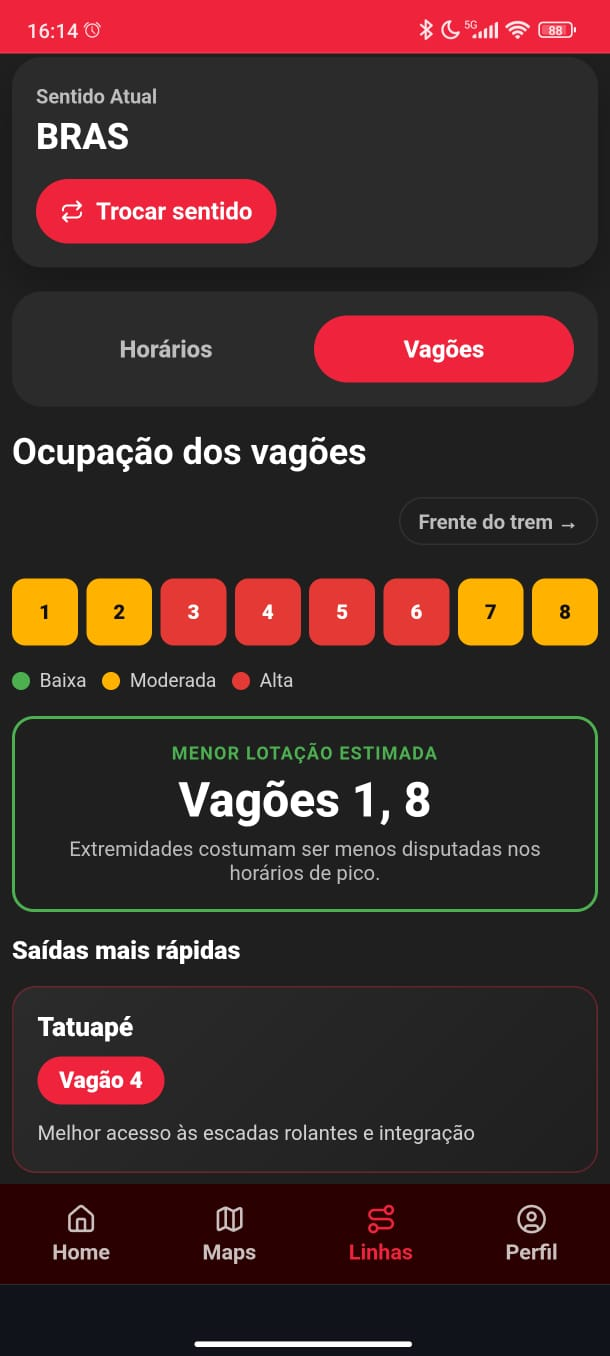
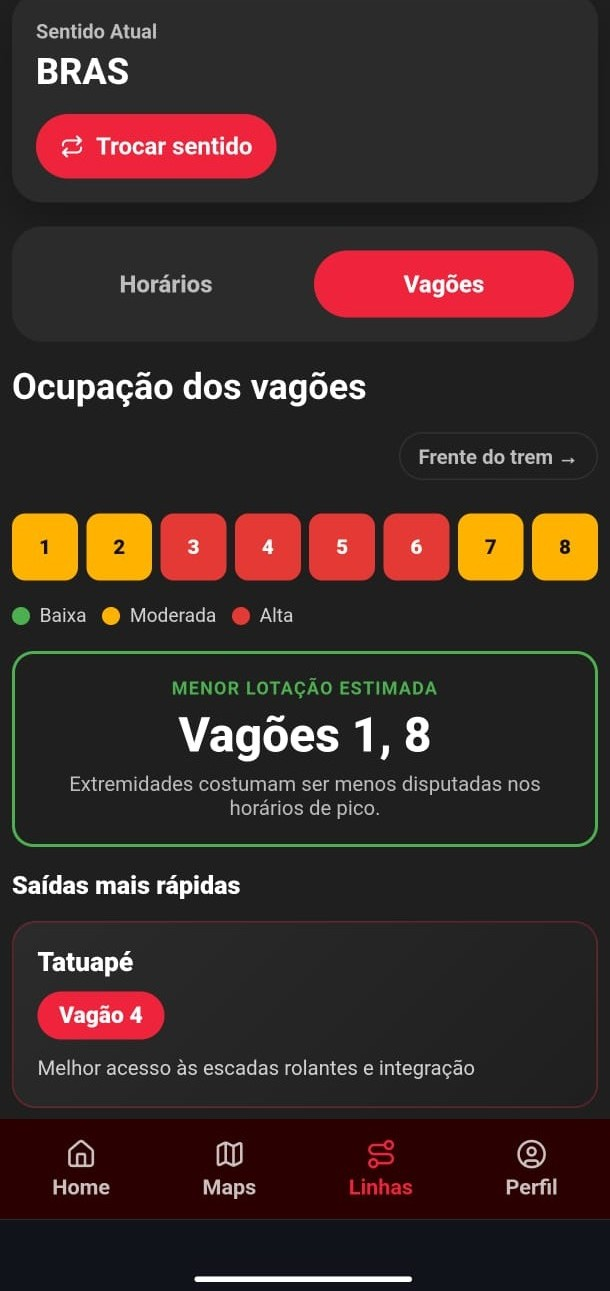
feat: faz a documentação do projeto (readme)

Changed region(s): [[0.0, 0.1859, 1.0, 0.9295], [0.0, 0.0, 1.0, 0.1859], [0.9344, 0.7126, 0.9656, 0.7436]]

diff --git a/readme.md b/readme.md
@@ -1,0 +1,381 @@
+# LocalLead — Inteligência Espacial para Mobilidade Urbana
+
+## Descrição do Projeto
+
+O **LocalLead** é um site institucional desenvolvido para apresentar uma solução de mobilidade urbana inteligente criada para a **Global Solution FIAP 2026**. A proposta do projeto é demonstrar como dados espaciais, inteligência artificial, análise climática e informações ferroviárias podem contribuir para uma experiência mais previsível, clara e segura para passageiros do transporte urbano sobre trilhos.
+
+O front-end foi desenvolvido com foco em uma comunicação visual moderna, limpa e tecnológica, apresentando o problema enfrentado pelos usuários, o conceito da solução, o funcionamento da proposta, o MVP do aplicativo, os integrantes do grupo e os canais de contato.
+
+A identidade visual do projeto utiliza uma paleta baseada em vermelho, branco, cinza claro, cinza escuro e preto, buscando transmitir inovação, mobilidade, confiança e clareza visual.
+
+---
+
+## 🔗 Repositório
+
+[![GitHub](https://img.icons8.com/ios-glyphs/30/000000/github.png)](https://github.com/EnzoNukui/LocalLead)  
+[https://github.com/EnzoNukui/LocalLead](https://github.com/EnzoNukui/LocalLead)
+
+---
+
+## 🌐 Link do Projeto
+
+O front-end do projeto **LocalLead** está disponível para acesso público através do deploy na Vercel.
+
+🔗 <a href="locallead-site.vercel.app" target="_blank"><strong>Acessar o site do LocalLead</strong></a>
+
+---
+
+## 🛠️ Tecnologias Utilizadas
+
+O projeto foi desenvolvido utilizando tecnologias web nativas, priorizando organização, responsividade, semântica e facilidade de manutenção.
+
+* **HTML5:** utilizado para estruturar as páginas, seções, navegação, conteúdos institucionais e elementos semânticos do site.
+* **CSS3:** responsável pela identidade visual, responsividade, organização dos layouts, grids, cards, botões, header, footer e adaptação para diferentes tamanhos de tela.
+* **JavaScript:** utilizado para adicionar interatividade ao site, principalmente no menu responsivo e em comportamentos dinâmicos da interface.
+* **Git:** utilizado para controle de versão durante o desenvolvimento.
+* **GitHub:** utilizado para hospedagem do código-fonte e colaboração entre os integrantes.
+* **Vercel:** utilizada para publicação do projeto em ambiente web.
+
+---
+
+## 📸 Imagens e Representação do Projeto
+
+As capturas abaixo demonstram as principais telas desenvolvidas no front-end do **LocalLead**, apresentando a identidade visual, a organização das páginas e a experiência responsiva do site.
+
+### 🏠 1. Página Principal — Home
+
+A página inicial apresenta a proposta central do LocalLead, destacando a mobilidade urbana inteligente, o uso de dados e a importância de oferecer mais previsibilidade para passageiros do transporte ferroviário.
+
+<img src="./assets/img/apresentacao/home-desktop.png" alt="Página Home do LocalLead" width="100%">
+
+### 🛰️ 2. Página Sobre
+
+A página Sobre contextualiza o projeto, explicando o propósito da solução e a relação entre dados espaciais, inteligência artificial e transporte ferroviário urbano.
+
+<img src="./assets/img/apresentacao/sobre-desktop.png" alt="Página Sobre do LocalLead" width="100%">
+
+### ⚙️ 3. Página Solução
+
+A página Solução apresenta o funcionamento conceitual da proposta, mostrando etapas como coleta de dados, processamento por inteligência artificial e distribuição de previsões acionáveis.
+
+<img src="./assets/img/apresentacao/solucao-desktop.png" alt="Página Solução do LocalLead" width="100%">
+
+### 📱 4. Página Nosso Aplicativo
+
+A página Nosso Aplicativo apresenta o MVP do LocalLead, suas principais telas, funcionalidades, limitações e tecnologias utilizadas no desenvolvimento da aplicação.
+
+<img src="./assets/img/apresentacao/aplicativo-desktop.png" alt="Página Nosso Aplicativo do LocalLead" width="100%">
+
+### 👥 5. Página Integrantes
+
+A página Integrantes apresenta os desenvolvedores responsáveis pelo projeto, com nome, RM, turma e links para GitHub e LinkedIn.
+
+<img src="./assets/img/apresentacao/integrantes-desktop.png" alt="Página Integrantes do LocalLead" width="100%">
+
+### 📱 6. Experiência Responsiva — Mobile
+
+O projeto foi desenvolvido para se adaptar a diferentes tamanhos de tela, reorganizando menus, imagens, textos, cards e botões para garantir boa usabilidade em dispositivos móveis.
+
+| Home Mobile |
+| :---: |
+| <img src="./assets/img/apresentacao/home-mobile.png" alt="Página Home Mobile do LocalLead" height="420"> |
+
+| Aplicativo Mobile |
+| :---: |
+| <img src="./assets/img/app/app-home.jpg" alt="Página Aplicativo Mobile do LocalLead" height="420"> |
+
+---
+
+## 🚀 Como Inicializar o Projeto
+
+Como este repositório corresponde ao front-end institucional do **LocalLead**, não é necessário instalar dependências para visualizar o projeto localmente.
+
+### 1. Clonar o repositório
+
+```bash
+git clone https://github.com/EnzoNukui/LocalLead.git
+```
+
+### 2. Acessar a pasta do projeto
+
+```bash
+cd LocalLead
+```
+
+### 3. Abrir o projeto no navegador
+
+Abra o arquivo abaixo diretamente no navegador:
+
+```text
+index.html
+```
+
+Também é possível utilizar a extensão **Live Server** no Visual Studio Code para executar o projeto localmente com recarregamento automático.
+
+### 4. Executando com Live Server
+
+```text
+1. Abra a pasta do projeto no VS Code
+2. Clique com o botão direito no arquivo index.html
+3. Selecione a opção "Open with Live Server"
+```
+
+---
+
+---
+
+## 📱 Como Inicializar o MVP do Aplicativo
+
+Além do site institucional, o projeto também apresenta um **MVP funcional do aplicativo LocalLead**, desenvolvido para demonstrar a experiência mobile de consulta a linhas, horários estimados e informações de vagões.
+
+O MVP está em um repositório separado:
+
+🔗 [https://github.com/EnzoNukui/mvp_locallead](https://github.com/EnzoNukui/mvp_locallead)
+
+---
+
+### 1. Clonar o repositório do MVP
+
+```bash
+git clone https://github.com/EnzoNukui/mvp_locallead.git
+```
+
+### 2. Acessar a pasta do projeto
+
+```bash
+cd mvp_locallead
+```
+
+### 3. Instalar as dependências
+
+Caso o projeto utilize Node.js no back-end, instale as dependências com:
+
+```bash
+npm install
+```
+
+Se o back-end estiver dentro de uma pasta específica, acesse essa pasta antes de instalar:
+
+```bash
+cd back-end
+npm install
+```
+
+### 4. Inicializar o servidor
+
+Para iniciar o servidor do MVP, utilize:
+
+```bash
+npm start
+```
+
+Caso o projeto esteja configurado para rodar diretamente pelo arquivo principal, utilize:
+
+```bash
+node server.js
+```
+
+### 5. Abrir o front-end do MVP
+
+Após iniciar o servidor, abra o front-end do projeto no navegador. Se estiver utilizando o VS Code, recomenda-se abrir o arquivo principal com a extensão **Live Server**.
+
+```text
+1. Abra a pasta do MVP no VS Code
+2. Localize o arquivo index.html do front-end
+3. Clique com o botão direito
+4. Selecione "Open with Live Server"
+```
+
+---
+
+## 📍 Permissão de Localização
+
+Para que o MVP funcione corretamente, é necessário permitir o acesso à localização do dispositivo quando o navegador solicitar.
+
+Essa permissão é importante porque o LocalLead utiliza a localização do usuário para simular uma experiência mais contextualizada, permitindo que o sistema identifique melhor o ponto de partida e relacione a experiência do passageiro com o ambiente urbano ao redor.
+
+Ao abrir o MVP no navegador, aceite a solicitação:
+
+```text
+Permitir que este site acesse sua localização?
+```
+
+Clique em:
+
+```text
+Permitir
+```
+
+Caso a localização seja bloqueada, algumas funcionalidades do MVP podem não funcionar corretamente ou apresentar informações menos precisas.
+
+---
+
+## ⚠️ Observações sobre o MVP
+
+O MVP do LocalLead ainda possui limitações por se tratar de uma primeira versão acadêmica da solução.
+
+* A localização do usuário depende da permissão concedida no navegador.
+* O projeto ainda não utiliza GPS real dos trens.
+* As previsões são estimadas com base em regras internas e dados disponíveis.
+* Algumas informações podem depender da disponibilidade de APIs externas.
+* A visualização de ocupação dos vagões representa uma proposta de funcionamento.
+
+---
+
+## 📁 Estrutura de Pastas do Projeto
+
+A arquitetura do repositório foi organizada para separar recursos visuais, folhas de estilo, scripts e páginas internas, facilitando a manutenção e evolução do projeto.
+
+```text
+LocalLead/
+├── assets/
+│   ├── favicon/
+│   │   └── favicon.ico
+│   ├── img/
+│   │   ├── app/
+│   │   │   ├── app-home.png
+│   │   │   ├── app-horarios-linhas.png
+│   │   │   ├── app-vagoes.png
+│   │   │   └── app-mockup-principal.png
+│   │   ├── apresentacao/
+│   │   │   ├── home-desktop.png
+│   │   │   ├── sobre-desktop.png
+│   │   │   ├── solucao-desktop.png
+│   │   │   ├── aplicativo-desktop.png
+│   │   │   ├── integrantes-desktop.png
+│   │   │   ├── home-mobile.png
+│   │   │   └── aplicativo-mobile.png
+│   │   ├── home/
+│   │   │   └── imagens utilizadas na página inicial
+│   │   ├── sobre/
+│   │   │   └── imagens utilizadas na página sobre
+│   │   └── logo_locallead.png
+│   └── integrantes/
+│       ├── foto_arthur.jpg
+│       ├── foto_diego.jpeg
+│       ├── foto_enzo.jpeg
+│       ├── foto_leticia_cardoso.jpeg
+│       └── foto_leticia_dias.jpeg
+├── css/
+│   ├── aplicativo.css
+│   ├── base.css
+│   ├── buttons.css
+│   ├── cards.css
+│   ├── contato.css
+│   ├── faq.css
+│   ├── footer.css
+│   ├── header.css
+│   ├── hero.css
+│   ├── home.css
+│   ├── integrantes.css
+│   ├── layout.css
+│   ├── main.css
+│   ├── sobre.css
+│   └── solucao.css
+├── js/
+│   ├── main.js
+│   └── menu.js
+├── paginas/
+│   ├── aplicativo.html
+│   ├── contato.html
+│   ├── faq.html
+│   ├── integrantes.html
+│   ├── sobre.html
+│   └── solucao.html
+├── index.html
+└── README.md
+```
+
+---
+
+## 🎨 Organização Visual e Responsividade
+
+O CSS do projeto foi separado em arquivos modulares, facilitando a organização dos estilos por responsabilidade. O arquivo `main.css` centraliza os imports dos demais arquivos, enquanto cada página possui um CSS específico para seus componentes principais.
+
+A responsividade foi planejada para adaptar o layout em diferentes tamanhos de tela, reorganizando grids, imagens, menus, cards e botões. No mobile, o menu tradicional é substituído por um menu hambúrguer, e as seções passam a ter uma leitura vertical mais confortável.
+
+---
+
+## 👥 Autores e Créditos
+
+Conheça os desenvolvedores responsáveis pela idealização e desenvolvimento do projeto **LocalLead**:
+
+<table>
+  <thead>
+    <tr>
+      <th>Nome do Integrante</th>
+      <th>RM</th>
+      <th>Turma</th>
+      <th>LinkedIn</th>
+      <th>GitHub</th>
+    </tr>
+  </thead>
+  <tbody>
+    <tr>
+      <td>Arthur Carvalho Brito Martins</td>
+      <td>RM 572325</td>
+      <td>1TDSPH</td>
+      <td><a href="https://www.linkedin.com/in/arthur-martinss/">LinkedIn</a></td>
+      <td><a href="https://github.com/arthurmartinss">GitHub</a></td>
+    </tr>
+    <tr>
+      <td>Diego Soares Trujillo</td>
+      <td>RM 570147</td>
+      <td>1TDSPH</td>
+      <td><a href="https://www.linkedin.com/in/diego-trujillo-3441b9380/">LinkedIn</a></td>
+      <td><a href="https://github.com/diegotrujillo011">GitHub</a></td>
+    </tr>
+    <tr>
+      <td>Enzo Nukui da Silva</td>
+      <td>RM 569770</td>
+      <td>1TDSPH</td>
+      <td><a href="https://www.linkedin.com/in/enzo-nukui/">LinkedIn</a></td>
+      <td><a href="https://github.com/EnzoNukui">GitHub</a></td>
+    </tr>
+    <tr>
+      <td>Leticia Cardoso de Almeida</td>
+      <td>RM 569415</td>
+      <td>1TDSPH</td>
+      <td><a href="https://www.linkedin.com/in/let%C3%ADcia-almeida-70b851294/">LinkedIn</a></td>
+      <td><a href="https://github.com/lehalmeidafc0">GitHub</a></td>
+    </tr>
+    <tr>
+      <td>Leticia Dias Araujo Felix Moratori</td>
+      <td>RM 569138</td>
+      <td>1TDSPH</td>
+      <td><a href="https://www.linkedin.com/in/leticia-felix-660253286">LinkedIn</a></td>
+      <td><a href="https://github.com/LeticiaFelix18">GitHub</a></td>
+    </tr>
+  </tbody>
+</table>
+
+---
+
+## ✉️ Contato e Suporte
+
+Para dúvidas, sugestões ou informações sobre o projeto **LocalLead**, entre em contato pelos canais abaixo:
+
+* 🐛 **Reporte de Bugs e Sugestões:** abra uma issue diretamente no repositório do projeto:  
+[https://github.com/EnzoNukui/LocalLead/issues](https://github.com/EnzoNukui/LocalLead/issues)
+
+* 🔗 **Repositório Oficial:**  
+[https://github.com/EnzoNukui/LocalLead](https://github.com/EnzoNukui/LocalLead)
+
+* ✉️ **Contato Direto:**  
+[[email redacted]](mailto:[email redacted])
+
+---
+
+## 📌 Status do Projeto
+
+O projeto está em desenvolvimento acadêmico e faz parte da entrega da **Global Solution FIAP 2026**.
+
+Atualmente, o repositório contém a estrutura front-end do site institucional, com páginas HTML, arquivos CSS modulares, scripts JavaScript e recursos visuais organizados em pastas específicas.
+
+---
+
+## 📄 Licença
+
+Este projeto foi desenvolvido para fins acadêmicos.
+
+O uso, reprodução ou adaptação do conteúdo deve respeitar os créditos dos autores e o contexto da entrega para a **Global Solution FIAP 2026**.